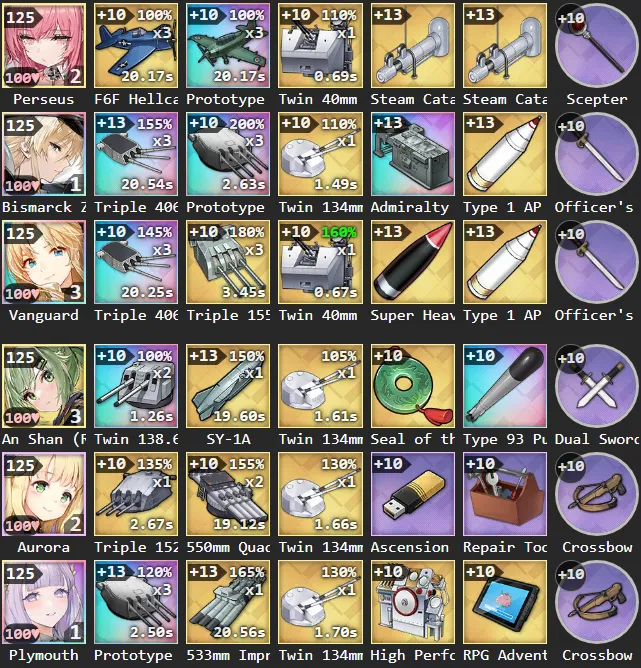
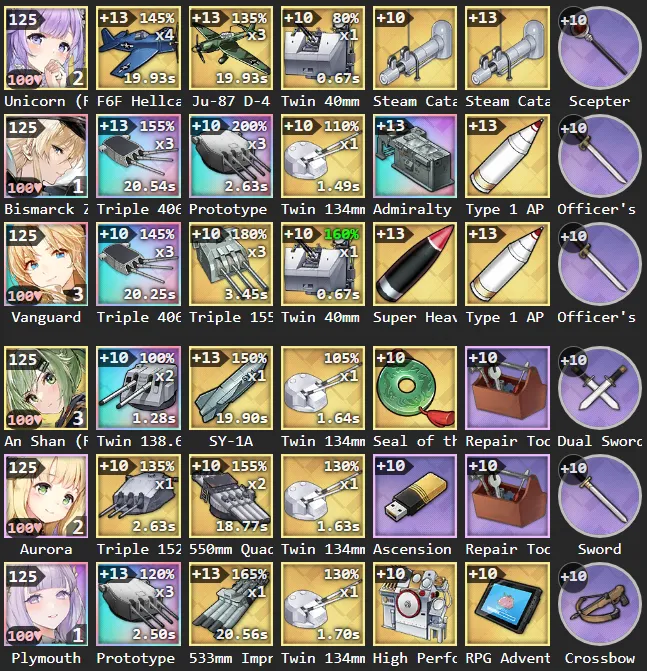
Elbing recommend Unicorn over Perseus

diff --git a/ChallengeMode/November.html b/ChallengeMode/November.html
@@ -31,22 +31,28 @@
                 <li><a href="ChallengeMode/November#strategy">Strategy</a></li>
                 <li><a href="ChallengeMode/November#mid_bb">Mid-End BB</a></li>
                 <li><a href="ChallengeMode/November#high_bb">High-End BBs</a></li>
+                <li><a href="ChallengeMode/November#mid_cv">Mid-End CV</a></li>
                 <li><a href="ChallengeMode/November#high_cv">High-End CV</a></li>
                 <li><a href="ChallengeMode/November#french">French</a></li>
+                <li><a href="https://azurlane.koumakan.jp/wiki/Extreme_Challenge#Scorpio" target="_blank" rel="noopener">Wiki</a></li>
             </ul>
             
             <h3 id="strategy">Strategy</h3>
-            <p>This is an easy CM. You must either bring a vanguard heal that activates every 20s, or have carriers that reload slightly faster than 20s for a screen clear. Toolkits alone will not do the job. The easiest ways to get the heal are</p>
-            <ol>
-                <li>Perseus.</li>
-                <li>Bring a timing calculator for Unicorn, who has the benefit of doing more damage than Perseus.</li>
-                <li>Little Formidable requires >90% HP, so to avoid her being burnt, bring at least one non-concealed main fleet ship, or pray with a full carrier fleet.</li>
-                <li>Marseillaise for a full-French vanguard.</li>
-                <li>Boise μ with a level 8 healing skill.</li>
-                <li>Ognevoy has a 10s heal, but she desyncs after like 5 minutes due to activating 4x as much as Elbing's skill.</li>
-            </ol>
-            <p>Due to a possible bug, similarly to Cancer (Graf Spee), your vanguard gets the +60% damage buff permanently, even if they get healed. Damage may be tight so GLHF if you don't have Aurora.</p>
-            <p>If you use Unicorn, do not make her too fast. The poison remains on the battlefield for 2 seconds, and if your vanguard ships get cleansed and move, they regain the poison.</p>
+            
+            <p>This is an easy CM that can be very annoying due to various sources of lag and RNG. You must either bring a vanguard heal that activates every 20s, or have carriers that reload slightly faster than 20s for a screen clear. Toolkits alone will not do the job. The best ways to get the heal are</p>
+            <ul>
+                <li>Primary Healers (Recommended)<ul>
+                    <li>Unicorn, who has the benefit of doing more damage and healing than Perseus. Must be timed properly, 19.92s-19.93s probably works for 5-7 minutes, and 19.94s-19.96s probably works for 10 minutes. For a level 125 Unicorn in love, BF-109G and Ryuusei is 19.95s with 2 RLD tech, or use HVARcat and Ju-87d with 0 RLD tech. Passing the first few stings relies on RNG, because if your vanguard is too close to the boss then they'll get hit before Unicorn heals.</li>
+                    <li>Perseus, who suffers from low damage and lower healing. She struggles to keep a sandwiched Aurora alive, so Eldridge is needed. A Plymouth-Aurora-Eldridge vanguard can survive for 7 minutes, which may not be enough time if your main fleet is weak. Furthermore, if her heal lags less than Elbing's sting, then Perseus can cleanse your vanguard of venom right before Scorpion's Mist (which lasts for 2s) expires. If your ships are moving, they regain the venom by touching Scorpion's Mist.</li>
+                </ul></li>
+                <li>Minor Healers (not recommended due to how much damage the boss does)<ul>
+                    <li>Little Formidable requires >90% HP, so to avoid her being burnt, bring at least one non-concealed main fleet ship, or pray with a full carrier fleet.</li>
+                    <li>Marseillaise for a full-French vanguard.</li>
+                    <li>Boise μ with a level 8 healing skill.</li>
+                    <li>Ognevoy has a 10s heal, but she desyncs after like 5 minutes due to activating 4x as much as Elbing's skill.</li>
+                </ul></li>
+            </ul>
+            <p>Due to a possible bug, similarly to Cancer (Graf Spee), most vanguard ships get the +60% damage buff permanently, even if they get healed. Ships who gain, lose, or refresh another source of damageRatioBullet, like Bayard or Bremerton, lose the free +60% damage until the next venom mist. Also, damage may be tight so GLHF if you don't have Aurora.</p>
             <a href="imgs/CM/scorpio_cm_time.webp" target="_blank" rel="noopener">
                 <img src="imgs/CM/scorpio_cm_time.webp" loading="lazy" alt="Time graph for skills." width="1900" height="320">
             </a>
@@ -54,32 +60,35 @@
             <!-- <div class="fleet">
                 <div> -->
                     <h3 id="mid_bb">Mid-End BB Example</h3>
-                    <p>For a level 125 Unicorn in love, equipping BF-109G and Ryuusei with 3 RLD tech is suitable. Or use HVARcat and Ju-87d with 0 RLD tech. That is 19.92s to 19.96s reload time. This fleet and gear won in 7:25 using half tech, a random gold/purple submarine fleet with random torps and no synergy, and the free cats level 30 Drake and level 25 Every.</p>
+                    <p>This fleet and gear won in 7:25 using half tech, a random gold/purple submarine fleet with random torps and no synergy, and the free cats level 30 Drake and level 25 Every.</p>
                 <!-- </div> -->
                 <a href="imgs/CM/scorpio_midBB.webp" target="_blank" rel="noopener">
-                    <img src="imgs/CM/scorpio_midBB.webp" loading="lazy" alt="Fleet image." width="646" height="669">
+                    <img src="imgs/CM/scorpio_midBB.webp" loading="lazy" alt="Fleet image." width="647" height="670">
                 </a>
             <!-- </div> -->
             <h3 id="high_bb">High-End BB Examples</h3>
-            <p>Any oaths or tech, just keep the faster black-white shell BB blocked behind the slower BB with AFCT/HSFCR. Perseus can use any airplanes, and her damage doesn't matter much, but of course HVARcat and Spearfish are the best anti-light. If you use Unicorn, follow the same timing as in Mid-End BB Example. If you use Ognevoy, the fleet has to win faster due to Ognevoy's sync drift.</p>
+            <p>Any oaths or tech, just keep the faster black-white shell BB blocked behind the slower BB with AFCT/HSFCR. If you use Ognevoy, the fleet has to win faster due to Ognevoy's sync drift and the lack of healing.</p>
             <div class="fleet">
                 <a href="imgs/CM/scorpio_highBB1.webp" target="_blank" rel="noopener">
-                    <img src="imgs/CM/scorpio_highBB1.webp" loading="lazy" alt="Fleet image." width="641" height="668">
+                    <img src="imgs/CM/scorpio_highBB1.webp" loading="lazy" alt="Fleet image." width="647" height="671">
                 </a>
                 <p></p>
                 <a href="imgs/CM/scorpio_highBB2.webp" target="_blank" rel="noopener">
                     <img src="imgs/CM/scorpio_highBB2.webp" loading="lazy" alt="Fleet image." width="644" height="669">
                 </a>
             </div>
+            
+            <h3 id="mid_cv">Mid-End CV Example</h3>
+            <p>For the super lazy people who don't want to time Unicorn, you can use Unicorn and Perseus together. This fleet won in 9:49 with no subs, half tech, a single cat without flame, and no HVARcat or Skyraider.</p>
+            <a href="imgs/CM/scorpio_midCV.webp" target="_blank" rel="noopener">
+                <img src="imgs/CM/scorpio_midCV.webp" loading="lazy" alt="Fleet image." width="648" height="667">
+            </a>
+            
             <h3 id="high_cv">Very High-End CV Example</h3>
             <p>Due to the 1.5s start of battle delay, if your faster CV has exactly 20.0s reload, the screen clear will happen 0.5s after the boss fires the true damage barrage. If your vanguard is too close to the boss due to RNG, then they'll die in that 0.5s. So you want CVs to reload slightly faster than 20s but not too fast that the CVs strike before the barrage appears.</p>
-            <p>Or just be a normal person and go slower with Unicorn or Perseus.</p>
-            <!-- <div class="video-player-limit">
-                <div class="video-player">
-                    <iframe width="560" height="315" loading="lazy" src="https://www.youtube.com/embed/pUJ_2eke4sI?si=_c8cV0E53X__yTfP" title="YouTube video player" frameborder="0" allow="accelerometer; autoplay; clipboard-write; encrypted-media; gyroscope; picture-in-picture; web-share" referrerpolicy="strict-origin-when-cross-origin" allowfullscreen></iframe>
-                </div>
-            </div> -->
+            <p>Or just be a normal person and use the other fleets.</p>
             <lite-youtube videoid="pUJ_2eke4sI" playlabel="auto Scorpio Elbing Hard in 2:45 - Extreme Challenge Mode Azur Lane"></lite-youtube>
+            
             <h3 id="french">French Example</h3>
             <p>Again, any oaths or tech, just keep the faster black-white shell BBs blocked behind the slower BB with AFCT/HSFCR. Removing Aurora and Plymouth is a big loss in DPS, but the extra BB may recover some of it. Marseillaise is required because she heals French ships every 20s. Elbing does a lot of damage, so Brest is required if your battle will go longer than 5 minutes. The third ship can be Le Mars for fleet buff, Mogador for damage, or L'Audacieux for worse Mogador.</p>
             <a href="imgs/CM/scorpio_french.webp" target="_blank" rel="noopener">

diff --git a/ChallengeMode/index.html b/ChallengeMode/index.html
@@ -22,9 +22,10 @@
             <h2>Challenge Mode Guides</h2>
         </header>
         <main>
-            <div>Current month is <a href="ChallengeMode/November" target="_self">November, Scorpio, Elbing</a></div>
+            <div style="text-align: center;">Current month is <a href="ChallengeMode/November" target="_self">November, Scorpio, Elbing</a></div>
             
             <h3>Introduction</h3>
+            <p>IMPORTANT: Fleet screenshots using <a href="https://renhex.github.io/AzurLaneFleet/" target="_self">Azur Lane Fleet Tool</a> show the vanguard from bottom (main-tank) to top (off-tank). The ships are also marked with 1, 2, and 3 from bottom to top.</p>
             <p>This is a guide for the monthly constellation extreme challenge mode (CM) in Azur Lane. Each sub-page will have strategies and example fleets. Although we try to be detailed in strategies and provide multiple example fleets, we do not know what ships or gear you have. Treat the example fleets as examples, and consider your own better upgrades or close substitutes.</p>
             <p>We assume Hard (Augur) difficulty, but the same strategies usually work for lower difficulties with worse fleets and gear. We also assume auto battle only, because most of the difficult CM gimmicks are nullified by proper manualing.</p>
             <p>Always check boss stats and skills on <a href="https://azurlane.koumakan.jp/wiki/Extreme_Challenge" target="_blank" rel="noopener">Extreme Challenge</a> wiki (or in game, but sometimes the game says a wrong number).</p>

diff --git a/ChallengeMode/styles.css b/ChallengeMode/styles.css
@@ -1,3 +1,7 @@
+li {
+    margin-bottom: 0.2em;
+}
+
 .fleet {
     display: flex;
     flex-wrap: wrap;
